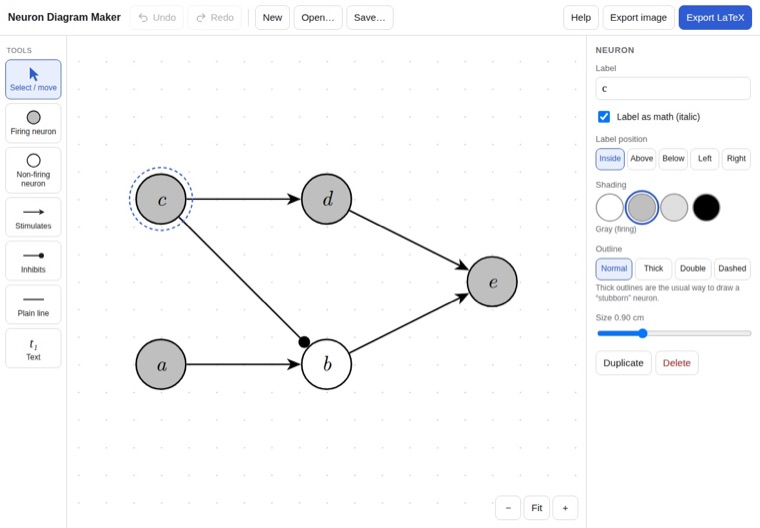
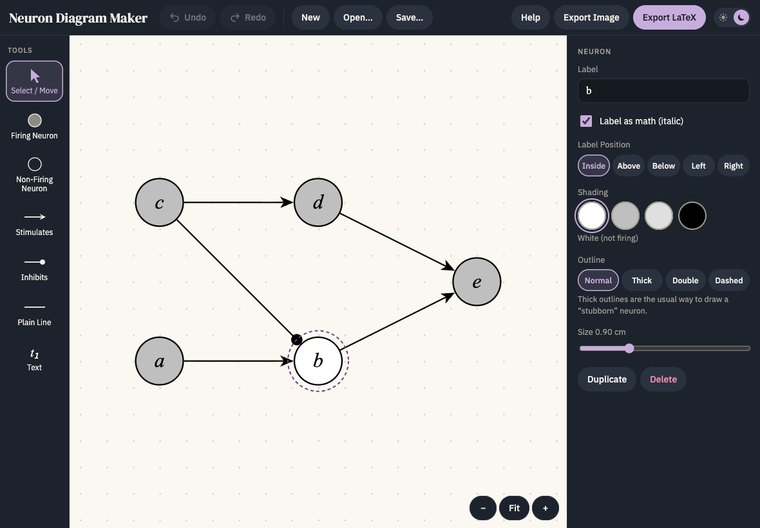
Update the Projects page for the two apps' new versions
- The Star Battle Solver is now a web app, so its button opens the app
  ("Open the Solver") instead of the code on GitHub, and its text describes
  painting or making a puzzle and the rule conventions from my 2022
  Berkeley mini Math Tournament Puzzle Round.
- New screenshots of both apps in their new look, with Day versions that
  swap in when the site is in Day mode.
- The Star Battle puzzle on the page uses the updated solver's steps, with
  the rule names and one step per reason (48 steps instead of 69).
- The links only work once the Widgets-and-Miscellaneous repo is pushed.
- Notes: DESIGN.md, README, CLAUDE.md (where the apps' repo lives now).

diff --git a/projects.html b/projects.html
@@ -82,7 +82,7 @@
       <p>A point-and-click editor for the neuron diagrams used in the philosophy of causation. Draw neurons and connections, then export TikZ code for a LaTeX document, or an image for Word or Google&nbsp;Docs.</p>
       <p class="pj-facts">Runs in any browser, on a computer, iPad or phone · Works offline · No account</p>
       <a class="pb" href="https://carsonmit.github.io/Widgets-and-Miscellaneous/NeuronDiagrams/">Open the Editor <span aria-hidden="true">→</span></a>
-      <figure class="pj-shot"><img src="images/projects/neuron-diagram-maker.jpg" width="760" height="528" alt="The Neuron Diagram Maker editor, with tools on the left, a diagram of five neurons in the middle, and the selected neuron's settings on the right" loading="lazy"><figcaption>The editor itself, with the same diagram</figcaption></figure>
+      <figure class="pj-shot"><img src="images/projects/neuron-diagram-maker.jpg" data-day="images/projects/neuron-diagram-maker-day.jpg" width="760" height="528" alt="The Neuron Diagram Maker editor, with tools on the left, a diagram of five neurons on a sheet of paper in the middle, and the selected neuron's settings on the right" loading="lazy"><figcaption>The editor itself, with the same diagram</figcaption></figure>
     </div>
     <div class="pj-piece nd-piece rise">
       <div class="solve-tabs" role="tablist" aria-label="Cases"></div>
@@ -97,14 +97,15 @@
 
   <!-- Star Battle Solver, with its live piece (design/mockups/projects-starbattle.html, approved: options A and C
        together). Play the real puzzle, ask for one step, or press Solve to watch. Every step and reason is the solver's
-       own output (data/star-battle-easy.json, exported from StarBattleSolver/solver.py). -->
+       own output (data/star-battle-easy.json, exported from StarBattleSolver/solver.py on its medium example; the file
+       keeps its old name because the puzzle used to be graded easy). -->
   <section class="wrap pj-proj pj-flip" id="star-battle" aria-labelledby="stb-title">
     <div class="pj-side">
       <h2 id="stb-title">Star Battle Solver</h2>
-      <p>A solver for Star Battle puzzles, written in Python, with a window where you paint in a puzzle and watch it solved step by step, each step explained in plain English.</p>
-      <p class="pj-facts">Reasons first and guesses only when stuck · 19 of 30 random test puzzles needed no guess at all · Makes new puzzles with exactly one answer</p>
-      <a class="pb" href="https://github.com/carsonmit/Widgets-and-Miscellaneous/tree/main/StarBattleSolver">See the Code on GitHub <span aria-hidden="true">→</span></a>
-      <figure class="pj-shot"><img src="images/projects/star-battle-solver.jpg" width="760" height="717" alt="The Star Battle Solver window part-way through a hard puzzle: a colored 10 by 10 grid with stars and crosses, the controls, and a log of the steps" loading="lazy"><figcaption>The solver's own window, part-way through a hard puzzle</figcaption></figure>
+      <p>Paint in a Star Battle puzzle, or make a new one at the difficulty you choose, and watch it solved step by step. Each step is explained with the rule conventions I wrote for the Puzzle Round of the 2022 Berkeley mini Math Tournament.</p>
+      <p class="pj-facts">Runs in any browser, on a computer, iPad or phone · Four difficulty levels, each checked by solving · Makes new puzzles with exactly one answer</p>
+      <a class="pb" href="https://carsonmit.github.io/Widgets-and-Miscellaneous/StarBattleSolver/">Open the Solver <span aria-hidden="true">→</span></a>
+      <figure class="pj-shot"><img src="images/projects/star-battle-solver.jpg" data-day="images/projects/star-battle-solver-day.jpg" width="760" height="528" alt="The Star Battle Solver part-way through an expert puzzle: a pastel 10 by 10 board with stars and crosses, one region tinted to show what the step is about, and the controls beside it" loading="lazy"><figcaption>The solver itself, part-way through its expert example</figcaption></figure>
     </div>
     <div class="pj-piece stb-piece rise">
       <p class="stb-rules"><b>The rules:</b> put two stars in every row, every column and every outlined region, and no two stars may touch, not even at a corner.</p>
@@ -125,6 +126,16 @@
       </div>
     </div>
   </section>
+
+  <script>
+    // Day screenshots of the two apps, swapped in when the site is in Day mode (like the stills on Home and About).
+    (() => {
+      const shots = [...document.querySelectorAll('.pj-shot img[data-day]')];
+      shots.forEach(i => { i.dataset.night = i.getAttribute('src'); });
+      const f = () => shots.forEach(i => { const src = document.documentElement.dataset.theme === 'day' ? i.dataset.day : i.dataset.night; if (i.getAttribute('src') !== src) i.src = src; });
+      f(); document.addEventListener('themechange', f);
+    })();
+  </script>
 
   <div class="wrap pj-close">
     <p>More small programs, from a Sudoku solver to a Scrabble scorer, are on <a href="https://github.com/carsonmit/Widgets-and-Miscellaneous">GitHub</a>.</p>
@@ -336,15 +347,22 @@
   const START = 'Place stars yourself: tap a cell once to cross it out, twice for a star (its neighbors are crossed out for you). Or press Solve to watch the solver work it out, one reason at a time.';
   let about = [], P, n, sol, mine, auto = new Set(), helped = 0, timer = null; // auto: crosses placed for you around a star
 
-  // The solver's wording, tidied for the page: "1 star(s)" → "1 star", and American spelling.
+  // The solver's wording, tidied for the page (the same as in the Star Battle Solver app): "1 star(s)" → "1 star",
+  // one region named in the singular, American spelling, en dashes in ranges.
   function tidy(m) {
     return m
-      .replace(/(\d+) (more |open )?(star|cell)\(s\)/g, (_, k, w2, w) => `${k} ${w2 || ''}${w}${k === '1' ? '' : 's'}`)
-      .replace(/open cells? left, so they all get stars/, s => s.startsWith('open cell left') ? 'open cell left, so it gets a star' : s)
-      .replace(/it gets a star \(and their neighbou?rs/, 'it gets a star (and its neighbors')
-      .replace(/region\(s\) ([A-J]) fit entirely inside (\w+ \d+), so they use up all of its stars/, 'region $1 fits entirely inside $2, so its two stars are $2\'s two stars').replace(/region\(s\) /, 'regions ')
-      .replace(/(rows|columns) (\d+)-(\d+), so they use up all of its/, '$1 $2–$3, so they use up all of their')
-      .replace(/^Squeeze: /, '').replace(/neighbours/g, 'neighbors').replace(/colour/g, 'color')
+      .replace(/(\d+) ((?:more |open )?)(star|cell|region)\(s\)/g, (_, k, between, w) => `${k} ${between}${w}${k === '1' ? '' : 's'}`)
+      .replace(/region\(s\) ([A-J])(?!, [A-J]\b)/g, 'region $1')
+      .replace(/exactly 1 open cell left, so they all get stars \(and their neighbours/g, 'exactly 1 open cell left, so it gets a star (and its neighbours')
+      .replace(/(\d+)-(\d+)/g, '$1–$2')
+      .replace(/region ([A-J]) fit entirely inside ([^,]+), so they use/g, 'region $1 fits entirely inside $2, so it uses')
+      .replace(/from region ([A-J]), which fills those regions up\. Their cells/g, 'from region $1, which fills it up. Its cells')
+      .replace(/region\(s\)/g, 'regions')
+      .replace(/needs 1 more star but there's no room for them/g, "needs 1 more star but there's no room for it")
+      .replace(/its other 1 star\b/g, 'its other star').replace(/for the 1 star it still needs/g, 'for the star it still needs')
+      .replace(/2x2/g, '2×2')
+      .replace(/neighbours/g, 'neighbors').replace(/colour/g, 'color').replace(/go round/g, 'go around')
+      .replace(/ - /g, ' — ')
       .replace(/^./, c => c.toUpperCase());
   }
   // Four tones for the regions, so that touching regions never share one (a greedy map coloring).

diff --git a/DESIGN.md b/DESIGN.md
@@ -105,7 +105,7 @@ Each live piece is a self-contained module that plugs into a slot on the page, s
 - **Tutoring: a problem that solves itself** as you scroll. Reference: `design/mockups/tutoring-solve.html` (approved layout: Written Out). Built-site decisions (owner, 2026-10-25): three problems as tabs: logarithms ($\log_2 x + \log_2(x-2) = 3$, with the extraneous root), a hard integral (Putnam 2005 A5, $\int_0^1 \frac{\ln(1+x)}{1+x^2}\,dx = \frac{\pi}{8}\ln 2$), and a tricky probability question (roll until a six, given all rolls even: expected rolls $\tfrac32$). Lines appear one at a time; the current line's changed part is in the accent; earlier lines dim. The reason for the current line sits in one tinted box (`--card`) just under the newest line and glides down as lines are added; the board itself is the page color. Back / Next buttons travel with the reason box, just under the newest line. Nothing is pinned. Every problem starts at step 1; scrolling moves it about one step per 115px (the whole problem over 0.9 screens, finishing as the board reaches the top), catching up one step at a time only while scrolling is still happening (a flick moves one step; steady scrolling reaches the end; it stops when you stop), never by where the page happens to be; on phones and tablets it counts from the lines, not the board's intro (owner, 2026-10-25). Unselected tabs are transparent with muted text, quieter than the Back/Next buttons; and each new step is preceded by "What would you do next?" for 0.8 s in the box (owner's choice after the critique, 2026-10-25). Next shows that prompt, then the step (a second press reveals it at once); once Back/Next are used, scrolling leaves that problem alone until another tab is picked. Tabs: "Logarithms", "Putnam Integral", "Dice", on one line, arrow keys move between them. Reduced motion: no pause, no glide. A quiet closing line at the end of the page points back to the booking cards (not a second booking section).
 - **Tutoring page layout** (owner, 2026-10-25): first screen = "Math Tutoring", the rates with the payment and other-length notes under them, and two large booking cards (lesson in the accent, intro call in `--card2`) as the focal point; no photo of Carson on this page; then Subjects (reading-size list in up to three columns, built to hold dozens), How I Teach (a letter in Carson's words; the section stays `hidden` until he writes it, owner 2026-10-25), the problem, and four real textbook pages (one lifted). Gaps between blocks at most 120px. Rejected: a single column of headings and text ("drab"), a separate Rates section, a second booking section at the bottom, a pinned scroll track.
 - **Projects: a neuron diagram.** Reference: `design/mockups/projects-neuron.html` (approved, owner 2026-10-25: option B, three classic cases as tabs, Preemption (the editor's own example diagram), Overdetermination, Double Prevention; firing neurons in the lilac/plum accent, not gray). Tap a neuron to fire it; the run replays in 0.46 s ticks with a small accent dot traveling each line; a line ending in a dot stops the neuron it reaches (the stopped neuron gets a dashed outline). Above the diagram, each case has a short explanation with one running example, Suzy and Billy throwing rocks at a bottle (the standard example in the causation literature), mapped onto its neurons: preemption (Billy holds back when he sees Suzy throw), overdetermination (both throw at once), double prevention (Pat calls out, so Billy doesn't catch Suzy's rock) (owner, 2026-10-25: replaced first-draft assassin examples). The caption below the diagram tells the same story for whatever the visitor taps, never generic "c fires" wording. Links to the editor.
-- **Projects: a Star Battle puzzle.** Reference: `design/mockups/projects-starbattle.html` (approved, owner 2026-10-25: options A and C together). The real 10×10 easy example from StarBattleSolver: tap a cell once to cross it out, twice for a star, three times to clear it (owner, 2026-10-25); a new star crosses out its open neighbors automatically, and removing it clears those automatic crosses unless another star still touches them; "Show Me a Step" gives the solver's next step and its reason; "Solve" keeps stepping from wherever the visitor is (0.42 s per step). A wrong mark is explained with the solver's own logic (owner, 2026-10-25: not just "can't be part of the answer"): a wrong star that touches a correct star says so; otherwise the page quotes the solver step that rules the cell out (or proves the star it touches); a wrong cross quotes the step that proves the star. Cells stay square whatever they hold. Layout (owner, 2026-10-25, after the final critique): the rules, then the board with row numbers down the left and column numbers along the top, then the reason and the buttons, stacked at every width (board up to 500px); night-mode region tones spread in lightness so regions read apart. The neuron card adds one line: "As in the papers, c is always the cause in question and e the effect." On phones the three case tabs stay on one line and scroll sideways. Every step and reason is the solver's own output, exported to `data/star-battle-easy.json`; only the wording is tidied ("1 star(s)" → "1 star", American spelling). The solver is a Python program, so the link goes to its code on GitHub.
+- **Projects: a Star Battle puzzle.** Reference: `design/mockups/projects-starbattle.html` (approved, owner 2026-10-25: options A and C together). The real 10×10 example from StarBattleSolver (once its easy example; the solver's 2026-10-26 grading calls it medium): tap a cell once to cross it out, twice for a star, three times to clear it (owner, 2026-10-25); a new star crosses out its open neighbors automatically, and removing it clears those automatic crosses unless another star still touches them; "Show Me a Step" gives the solver's next step and its reason; "Solve" keeps stepping from wherever the visitor is (0.42 s per step). A wrong mark is explained with the solver's own logic (owner, 2026-10-25: not just "can't be part of the answer"): a wrong star that touches a correct star says so; otherwise the page quotes the solver step that rules the cell out (or proves the star it touches); a wrong cross quotes the step that proves the star. Cells stay square whatever they hold. Layout (owner, 2026-10-25, after the final critique): the rules, then the board with row numbers down the left and column numbers along the top, then the reason and the buttons, stacked at every width (board up to 500px); night-mode region tones spread in lightness so regions read apart. The neuron card adds one line: "As in the papers, c is always the cause in question and e the effect." On phones the three case tabs stay on one line and scroll sideways. Every step and reason is the solver's own output, exported to `data/star-battle-easy.json`; only the wording is tidied ("1 star(s)" → "1 star", American spelling). The solver is a web app (owner, 2026-10-26), so the button is "Open the Solver"; the steps use the rule names from Carson's BmMT 2022 Puzzle Round conventions (Completed Sections, No More Space, Too Much Space, Rude Roommates, Nosy Neighbors, Chunking), one step per reason. Both app screenshots have Night and Day versions (`images/projects/*-day.jpg`), swapped with the site's mode.
 - **Projects page layout** (2026-10-25): first screen = "Projects", one line, then the textbook: "A Free GRE Textbook", the full title, "Free, and still growing" (owner's choice: the book is partly written; logic, set theory and arithmetic so far), a Download the PDF button, the chapters written so far as a quiet ledger, and a large real page with five sample pages beside it (pages 10, 14, 18, 20, 22; never the title page, and not the four shown on Tutoring). Then one row per project, alternating sides, each with its live piece and a real screenshot of the program. On narrow screens the live piece comes before the screenshot.
 - Rejected: a curve you shape, the name drawn by plain equations, a mini GRE question ("not my main niche").
 - Wished for later: Three.js and Manim (see CLAUDE.md).

diff --git a/CLAUDE.md b/CLAUDE.md
@@ -18,6 +18,7 @@
   - Carson wants a text as well as the email when someone books. Cal.com's SMS workflow needs a Twilio phone number, so find a workaround later (Carson, 2026-10-25).
   - Video is Zoom (connected; Carson's Cal.com default), never Cal Video (no whiteboard). Every new lesson type gets Zoom as its video location. Free Zoom cuts meetings at 40 min.
   - The connector's `create_event_type` tool rejects location and booking-field objects; use `call_api_operation` with `EventTypesController_2026_06_12_createEventType`, then set `bookingProposalCount` with an update (create doesn't accept it).
+- Project apps (repo `carsonmit/Widgets-and-Miscellaneous`, local clone `~/Documents/Code/Widgets-and-Miscellaneous`, the only copy: the old Documents download and PyCharm/CLion clones were moved to the Trash 2026-10-26; the PyCharm clone's never-committed work is on branch `pycharm-work` (pushed to GitHub 2026-10-26); Carson, 2026-10-26): Neuron Diagram Maker and Star Battle Solver must look as consistent as possible with the site in every respect (palette, fonts, Title Case, rounded soft buttons, Night/Day), with no visible design contrast. Neuron: "paper on the desk" (site colors around the canvas; the drawing stays black on paper in both modes); features unchanged. Star Battle: becomes a web app for computer, tablet and phone (like Neuron, with its own home-screen icon), paper board; run every substantial change by Carson first. Decided: solver rewritten in JavaScript (checked step-for-step against `solver.py`); keep `solver.py`, the generator and tests, retire the tkinter window; an Eraser swatch for touch (right-click still erases); new home-screen icons for both apps, designed as a matching pair. Later (not now, Carson 2026-10-26): add the harder variants from his BmMT 2022 Star Battles manual (`~/Downloads/Star_Battles_Instructions (5).pdf`): k stars per unit, Double Section, Row/Column/Section (rectangular), Black Hole/White Dwarf.
 - Payment (Carson, 2026-10-25): separate from booking for now; students pay after the lesson by Zelle, PayPal or Apple Cash. Later: add in-platform payment as a convenience option, Wyzant-style (a valid card on file to book, charged only after the lesson).
 - Contact form: Formspree (chosen 2026-10-22, for its saved message history and spam filtering). Carson creates the form and gives me its form ID, which is public by design and safe to commit. Form ID: `mrppewpn` (endpoint `https://formspree.io/f/mrppewpn`, given 2026-10-25). Test the form by intercepting the request in the test browser; never send a real message unless Carson says so.
 

diff --git a/README.md b/README.md
@@ -74,7 +74,7 @@ To change a design decision (a color or a font), update `DESIGN.md` first, then 
 
 **After editing `styles.css` or `site.js`,** change the version tag where every page links them (`styles.css?v=2026-10-26-1`, `site.js?v=…`) to something new, for example today's date. Browsers keep old copies of these files; a new tag makes them fetch the new one. Find and replace across the five HTML files does it in one go.
 
-**Tutoring subjects** live in `content/subjects.md`: one per line starting with `- `, below the `## Subjects` line. **Textbook pictures** in `images/gre/` are made from the PDF and don't update when the book changes; ask Claude to re-render them if the pages change. The same goes for `data/star-battle-easy.json` (made by running the solver) and the program screenshots in `images/projects/`.
+**Tutoring subjects** live in `content/subjects.md`: one per line starting with `- `, below the `## Subjects` line. **Textbook pictures** in `images/gre/` are made from the PDF and don't update when the book changes; ask Claude to re-render them if the pages change. The same goes for `data/star-battle-easy.json` (made by running the solver on its medium example) and the program screenshots in `images/projects/` (a Night and a `-day` version of each).
 
 ## Tools
 

diff --git a/CHANGELOG.md b/CHANGELOG.md
@@ -6,6 +6,12 @@ Notable changes to the site, newest first. Format based on [Keep a Changelog](ht
 
 ### Changed
 - Tutoring: the Putnam Integral problem's intro now reads "Evaluate this integral." instead of repeating the integral that sits right below it.
+- Projects: the Star Battle Solver is now a web app, so its button is "Open the Solver" (it used to link to the code on
+  GitHub), and its text and facts describe the app, its four difficulty levels and the rule conventions from Carson's
+  2022 Berkeley mini Math Tournament Puzzle Round.
+- Projects: new screenshots of both apps in their new look, with Night and Day versions that follow the site's mode.
+- Projects: the Star Battle puzzle uses the updated solver's steps: the rule names Completed Sections, No More Space,
+  Too Much Space, Rude Roommates, Nosy Neighbors and Chunking, and one step per reason (48 steps instead of 69).
 
 ## [0.12.0] - 2026-10-26
 
